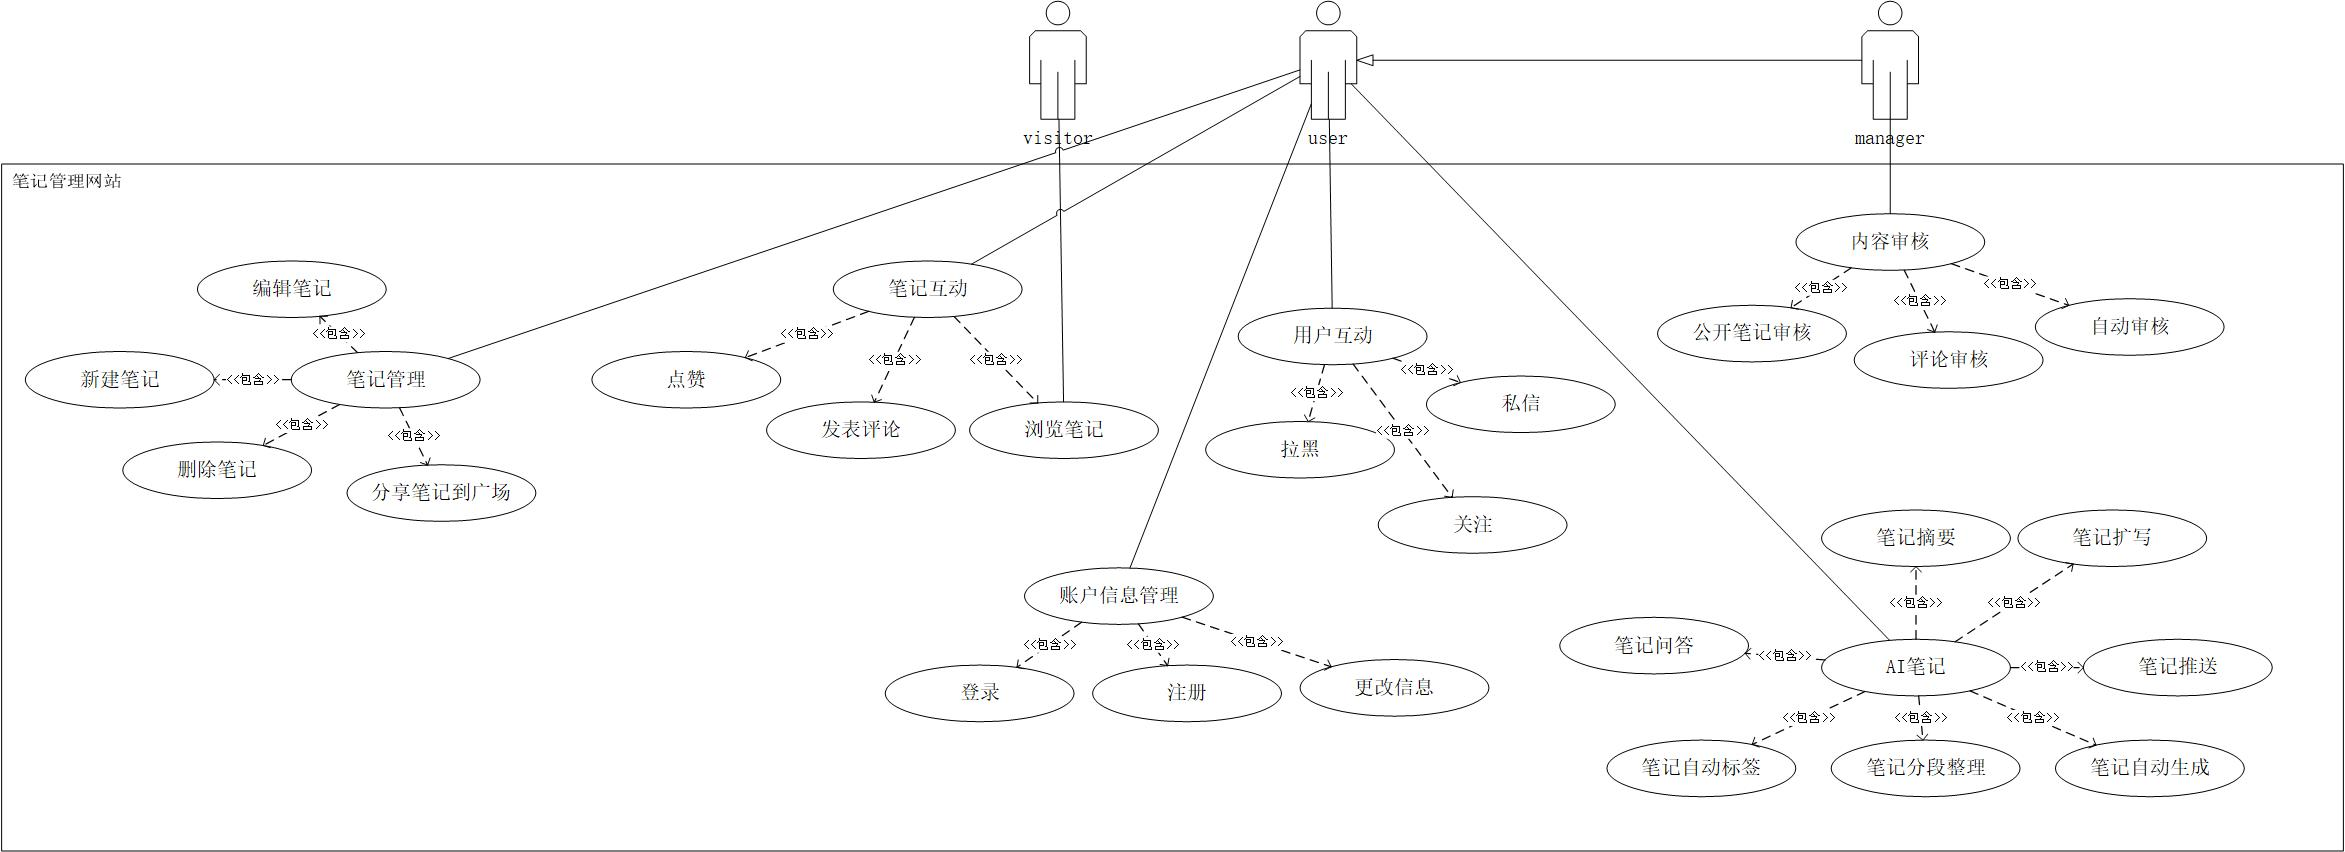
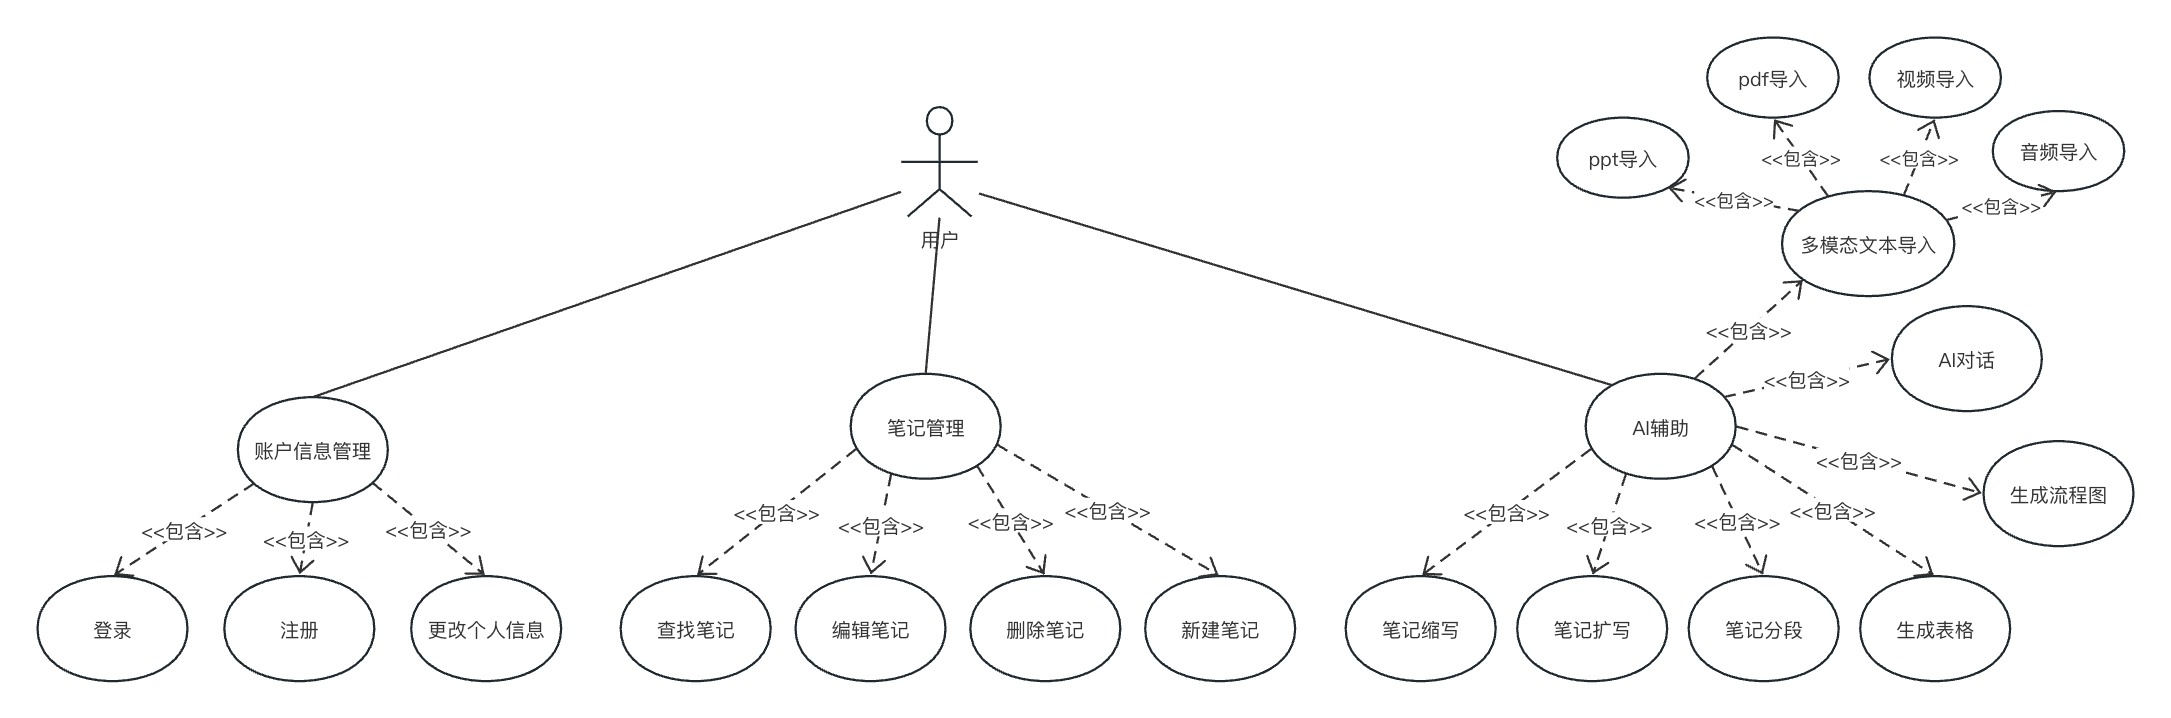
更新用例图；添加功能结构图；修复无法重命名笔记的bug

diff --git a/MagicNote_front/src/components/Notebook.vue b/MagicNote_front/src/components/Notebook.vue
@@ -12,7 +12,7 @@
   import left from "@icon-park/vue-next/lib/icons/Left"
 
   import {ElMessageBox, ElMessage} from "element-plus";
-  import {getAllNotesAPI, addNoteAPI, delNoteByIdAPI, updateNoteAPI, getNoteAPI} from "@/api/note"
+  import {getAllNotesAPI, addNoteAPI, delNoteByIdAPI, updateNoteAPI, updateNoteNameAPI} from "@/api/note"
   import {getNotebooksAPI, addNotebookAPI, updateNotebookAPI, delNotebookByIdAPI} from "@/api/notebook"
   import {currentUser, currentNote, setCurrentNote, currentNotebooks, updateNotebooks} from "@/global"
 
@@ -103,7 +103,7 @@
         .then(async ({ value }) => {
           const oldName = note.name;
           note.name = value;
-          await updateNoteAPI(note)
+          await updateNoteNameAPI(note)
               .catch((err) => {
                 note.name = oldName;
                 ElMessage.error(err.response.data);

diff --git a/MagicNote_front/src/api/note.js b/MagicNote_front/src/api/note.js
@@ -19,3 +19,7 @@ export const delNoteByIdAPI = (id) => {
 export const updateNoteAPI = (data) => {
     return request.put("/note/update", data);
 }
+
+export const updateNoteNameAPI = (data) => {
+    return request.put("/note/updateName", data);
+}

diff --git a/文档/API文档.md b/文档/API文档.md
@@ -1,0 +1,274 @@
+## 登录注册
+
+* 用户名登录：/login
+
+  * request body:
+
+  ```json
+  {
+    "name": "",
+    "password": ""
+  }
+  ```
+
+  * 返回结果:
+
+    成功则返回该User的信息和token：
+
+  ```json
+  {
+    "name": "",
+    "photo": "http://118.178.241.148:9000/userphoto/userphoto_1701490298283.jpg",
+    "id": "",
+    "email": "",
+    "token": ""
+  }
+  ```
+
+  	失败则返回失败原因：
+
+  ```json
+  {
+    "error": ""
+  }
+  ```
+
+  
+
+* 邮箱登录：/loginByEmail
+
+  * request body:
+
+  ```json
+  {
+    "email": "",
+    "password": ""
+  }
+  ```
+  
+  * 返回结果与/login一致
+  
+  
+  
+* 用户名注册: /register
+
+  * request body:
+
+  ```json
+  {
+    "name": "",
+    "password": ""
+  }
+  ```
+
+  * 返回结果:
+
+    成功则返回新用户的信息：
+
+  ```json
+  {
+    "name": "",
+    "photo": "http://118.178.241.148:9000/userphoto/userphoto_1701490298283.jpg",
+    "id": "",
+    "email": "",
+    "token": ""
+  }
+  ```
+
+  	失败返回失败原因(用户名已存在):
+
+  ```json
+  {
+    "error": ""
+  }
+  ```
+
+  
+
+* 邮箱注册：/registerByEmail
+
+  * request body:
+
+  ```json
+  {
+    "email": "",
+    "password": ""
+  }
+  ```
+
+  * 返回结果与/register一致
+
+  
+
+## 操作日志
+
+* 获取当前用户全部日志：/log/getall/{id}
+
+  * 返回结果：
+
+    成功则返回日志列表
+  
+  ```json
+  [
+    {
+      "id": "",
+      "userid": "",
+      "notename": "",
+      "timestamp": "",
+      "operation": "",
+      "noteid": ""
+    },
+    {
+      "id": "",
+      "userid": "",
+      "notename": "",
+      "timestamp": "",
+      "operation": "",
+      "noteid": ""
+    },
+    ...
+  ]
+  ```
+  
+  
+
+## 笔记本
+
+* 添加笔记本：/notebook/add
+
+  * Request body:
+
+  ```json
+  {
+    "userid": "",
+    "name": "",
+  }
+  ```
+
+  * 返回结果：
+
+  ```json
+  {
+    "id": "",	// 成功则返回插入后的笔记本id
+    "name": "",
+    "userid": ""
+  }
+  ```
+
+  ```json
+  {
+    "code": "",
+    "message": "" //失败返回失败原因，用户不能创建同名的笔记本
+  }
+  ```
+
+  
+
+* 删除笔记本：/notebook/delete/{id}
+
+
+
+* 重命名笔记本：/notebook/update
+
+  * request body:
+
+  ```json
+  {
+    "userid": "",
+    "id": "",
+    "name": ""
+  }
+  ```
+
+  
+
+* 查找笔记本: /notebook/getByUser/{id}
+
+  * 返回结果：
+
+  ```json
+  [
+    {
+        "id": ,
+        "name": "",
+        "userid": ""
+    },
+    {
+        "id": "",
+        "name": "",
+        "userid": ""
+    },
+  	...
+  ]
+  ```
+
+
+
+## 笔记
+
+* 获取笔记本中的全部笔记: /note/getByNotebook/{id}
+
+  * 返回结果:
+
+  ```json
+  [
+    {
+      "id": "",
+      "name": "",
+      "userid": "",
+      "content": "",
+      "notebookid": ""
+    },
+    {
+      "id": "",
+      "name": "",
+      "userid": "",
+      "content": "",
+      "notebookid": ""
+    },
+    ...
+  ]
+  ```
+
+  
+
+* 添加笔记：/note/add
+
+  * request body:
+
+  ```json
+  {
+    "userid": "",
+    "content": "",
+    "name": "",
+    "notebookid": ""
+  }
+  ```
+
+  * 成功新建笔记的属性:
+
+  ```json
+  {
+    "id": "",
+    "name": "",
+    "userid": "",
+    "notebookid": "",
+  }
+  ```
+
+  * 失败返回失败原因
+
+  
+
+* 删除笔记：/note/delete/{id}
+
+
+
+## AI
+
+* 摘要: /ai/abstract
+* 扩写: /ai/expand
+* 分段: /ai/segment
+* 生成表格: /ai/generateTable
+* 生成流程图：/ai/generateFlowChart
+* ai对话：/ai/answer
